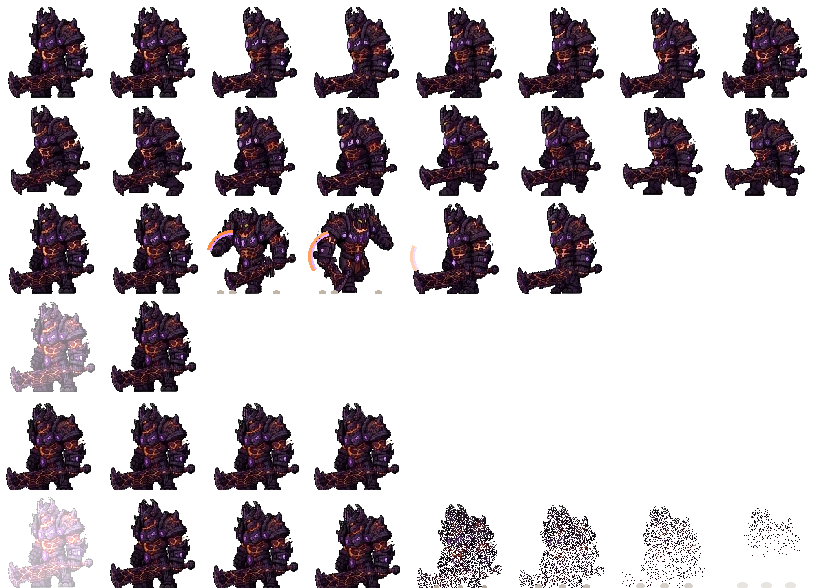
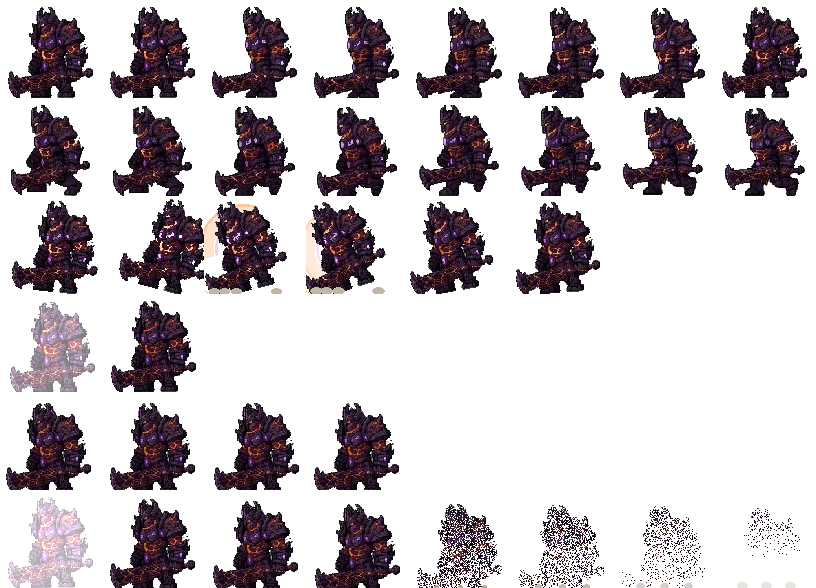
Clearer swings: the walker's arm follows its machete; the boss slams
Walker: the arm and machete are one piece rotated about the shoulder
(the torso it covered is filled in): ready, raised back over the head,
down across the front with a bright smear, follow-through, recover.
Boss: its lava veins flare as it rears back (the warning), then it
pitches forward over the front foot with a wide smear, dust and lava
cracks on the ground; the strike shakes the cave. The '!' over the boss
sits above its HP pips.

Claude-Session: https://claude.ai/code/session_01TWgnVPgC6ExzhCPMZ9rN5j

Changed region(s): [[0.0, 0.3367, 0.7353, 0.5204]]

diff --git a/tools/make_enemy_animations.py b/tools/make_enemy_animations.py
@@ -178,6 +178,61 @@ def death_row(still, collapse, seed, puffs, steps):
     return frames
 
 
+# ---- swings: a limb rotated about its joint ------------------------------
+
+def inpaint(art, holes, rounds=24, shade=0.82):
+    """Fill ``holes`` from their filled neighbours (a part was lifted off)."""
+    out = art.astype(float)
+    todo = holes.copy()
+    out[todo] = 0
+    for _ in range(rounds):
+        if not todo.any():
+            break
+        filled = (out[..., 3] > 0) & ~todo
+        acc = np.zeros(out.shape[:2] + (3,))
+        cnt = np.zeros(out.shape[:2])
+        for dy, dx in ((1, 0), (-1, 0), (0, 1), (0, -1)):
+            src = np.roll(np.roll(out, dy, 0), dx, 1)
+            ok = np.roll(np.roll(filled, dy, 0), dx, 1)
+            acc += src[..., :3] * ok[..., None]
+            cnt += ok
+        grow = todo & (cnt > 0)
+        out[grow, :3] = acc[grow] / cnt[grow, None] * shade
+        out[grow, 3] = 255
+        todo &= ~grow
+    return out.astype(np.uint8)
+
+
+def rotated_layer(part, size, at, pivot, degrees):
+    """``part`` placed at ``at`` on a ``size`` canvas, turned about ``pivot``
+    (art coordinates) by ``degrees`` counter-clockwise, pixel-crisp."""
+    canvas = Image.new('RGBA', size, (0, 0, 0, 0))
+    canvas.alpha_composite(Image.fromarray(part), at)
+    if degrees:
+        canvas = canvas.rotate(degrees, resample=Image.NEAREST,
+                               center=(at[0] + pivot[0], at[1] + pivot[1]))
+    return canvas
+
+
+def smear(frame, center, r0, r1, start, end, color, alpha):
+    """A filled crescent: the motion blur of a swing (screen degrees, y down)."""
+    a = np.array(frame)
+    h, w = a.shape[:2]
+    ys, xs = np.mgrid[0:h, 0:w]
+    dx, dy = xs - center[0], ys - center[1]
+    d = np.hypot(dx, dy)
+    ang = np.degrees(np.arctan2(dy, dx)) % 360
+    lo, hi = start % 360, end % 360
+    inside = (ang >= lo) & (ang <= hi) if lo <= hi else (ang >= lo) | (ang <= hi)
+    band = inside & (d >= r0) & (d <= r1) & (a[..., 3] == 0)
+    edge = band & (d >= r1 - 1.5)
+    inner = band & (d >= r1 - 4) & ~edge
+    a[band] = (*color, alpha // 4)
+    a[inner] = (*color, alpha // 2)
+    a[edge] = (255, 255, 240, alpha)
+    return Image.fromarray(a)
+
+
 # ---- per enemy ------------------------------------------------------------
 
 def walker_frames(art, masks):
@@ -189,19 +244,36 @@ def walker_frames(art, masks):
         c = math.cos(2 * math.pi * n / 8)
         pose['weapon'] = (round(c), pose['body'][1])      # the knife swings against the legs
     anims['walk'] = [f(p) for p in lagged(walk)]
-    # Ready, wind up, slash down toward the facing side (left), follow through, recover.
+    # The swing: the arm and the machete are one piece turned about the
+    # shoulder, so the arm follows the blade. The torso it covered is filled.
+    h, w = art.shape[:2]
+    ys, xs = np.mgrid[0:h, 0:w]
+    solid = art[..., 3] > 0
+    limb = solid & (((xs <= 14) & (ys <= 33)) | ((xs <= 20) & (ys >= 18) & (ys <= 38)))
+    shoulder = (20, 23)
+    body_art = inpaint(np.where(limb[..., None], 0, art).astype(np.uint8), limb & (xs >= 15))
+    arm_art = np.where(limb[..., None], art, 0).astype(np.uint8)
+    size = (w + 2 * PAD_X, h + PAD_TOP)
+    # (body offset, arm angle, smear (from, to, alpha) in screen degrees)
+    # The blade starts pointing up-left (about 208 deg); +angle swings it down.
+    keys = (((1, 0), -15, None),                 # ready
+            ((2, 0), -62, None),                 # wind up: blade raised back
+            ((-2, 0), 55, (150, 272, 230)),      # strike: down across the front
+            ((-3, 1), 92, (112, 210, 150)),      # follow through
+            ((-2, 1), 40, None),                 # recover
+            ((-1, 0), 10, None))                 # settle
     attack = []
-    keys = (((1, 0), (2, -3), (1, 0), None),
-            ((2, 0), (3, -5), (2, 0), None),
-            ((-1, 0), (-3, 1), (0, 0), ((200, 268), 230)),
-            ((-2, 1), (-5, 4), (-2, 1), ((150, 258), 170)),
-            ((-1, 1), (-3, 2), (-2, 1), ((150, 200), 80)),
-            ((0, 0), (-1, 1), (-1, 0), None))
-    for body, weapon, head, arc in keys:
-        frame = f({'body': body, 'weapon': weapon, 'head': head})
+    for (bx, by), angle, arc in keys:
+        frame = Image.new('RGBA', size, (0, 0, 0, 0))
+        legs = np.where((masks['leg_l'] | masks['leg_r'])[..., None], art, 0).astype(np.uint8)
+        frame.alpha_composite(Image.fromarray(legs), (PAD_X, PAD_TOP))
+        upper = np.where((masks['leg_l'] | masks['leg_r'])[..., None], 0, body_art).astype(np.uint8)
+        frame.alpha_composite(Image.fromarray(upper), (PAD_X + bx, PAD_TOP + by))
+        pivot = (PAD_X + bx + shoulder[0], PAD_TOP + by + shoulder[1])
         if arc:
-            (start, end), alpha = arc
-            slash(frame, (PAD_X + 14, PAD_TOP + 26), 17, start, end, (255, 236, 200, alpha))
+            frame = smear(frame, pivot, 13, 25, arc[0], arc[1], (255, 244, 220), arc[2])
+        frame.alpha_composite(rotated_layer(arm_art, size, (PAD_X + bx, PAD_TOP + by),
+                                            shoulder, angle))
         attack.append(frame)
     anims['attack'] = attack
     hurt = [f({'body': (2, 0), 'head': (3, 0), 'weapon': (3, -1)}),
@@ -324,25 +396,45 @@ def boss_frames(art, masks):
             walk_frames.append(compose_src(src, pose))
         anims['walk'] = walk_frames
 
-        swing_a = _boss_directional_pose(grid, 3, 3, (w, h), flip=True)
-        swing_b = _boss_directional_pose(grid, 3, 2, (w, h), flip=False)
-        attack_specs = (
-            (idle_srcs[0], {'body': (1, 0), 'head': (1, 0)}, None, False),
-            (idle_srcs[0], {'body': (3, 0), 'head': (2, 0)}, None, False),
-            (swing_a, {'body': (-2, 0), 'head': (-1, 0)}, ((195, 270), 235), True),
-            (swing_b, {'body': (-4, 0), 'head': (-2, 0)}, ((145, 255), 185), True),
-            (idle_srcs[2], {'body': (-3, 1), 'head': (-4, 2)}, ((145, 205), 95), False),
-            (idle_srcs[1], {'body': (-1, 0), 'head': (-2, 1)}, None, False),
-        )
+        # A heavy slam with the whole body (its sword is part of the
+        # silhouette): it rears back while its lava veins flare
+        # (the warning), then pitches forward over the front foot with a
+        # wide smear, a burst of dust and lava cracks where it lands.
+        size = (w + 2 * PAD_X, h + PAD_TOP)
+        back_foot, front_foot = (62, h - 1), (26, h - 1)
+        src = idle_srcs[0]
+        r, g, b = (src[..., i].astype(int) for i in range(3))
+        veins = (src[..., 3] > 0) & (((r > 115) & (r > b + 40)) | ((b > 90) & (b > g + 30) & (r > 70)))
+        # (x, y shift, tilt: + leans forward, pivot foot, vein flare, smear, impact)
+        beats = ((2, 0, -6, back_foot, 40, None, False),
+                 (4, 0, -15, back_foot, 110, None, False),
+                 (-3, 0, 14, front_foot, 60, (165, 290, 235), True),
+                 (-4, 0, 18, front_foot, 30, (130, 230, 170), True),
+                 (-3, 0, 10, front_foot, 0, None, False),
+                 (-1, 0, 4, front_foot, 0, None, False))
         attack = []
-        for n, (src, pose, arc, puff) in enumerate(attack_specs):
-            frame = compose_src(shimmer(src, n, 6), pose)
+        for n, (dx, dy, tilt, foot, flare, arc, impact) in enumerate(beats):
+            art_n = shimmer(src, n, 6)
+            if flare:
+                art_n = brighten(art_n, veins, np.full(veins.shape, flare, np.int16))
+            frame = rotated_layer(art_n, size, (PAD_X + dx, PAD_TOP + dy), foot, tilt)
             if arc:
-                (start, end), alpha = arc
-                slash(frame, (PAD_X + 20, PAD_TOP + 54), 26, start, end, (255, 130, 45, alpha), width=3)
-                slash(frame, (PAD_X + 20, PAD_TOP + 54), 23, start, end, (210, 110, 255, max(60, alpha - 50)), width=2)
-            if puff:
-                dust(frame, (PAD_X + 8, PAD_X + 20, PAD_X + 64))
+                center = (PAD_X + dx + 34, PAD_TOP + 46)
+                frame = smear(frame, center, 30, 46, arc[0], arc[1], (255, 132, 46), arc[2])
+                frame = smear(frame, center, 26, 30, arc[0], arc[1], (200, 110, 255),
+                              max(60, arc[2] - 60))
+            if impact:
+                draw = ImageDraw.Draw(frame)
+                base = frame.height - 1
+                reach = 34 if n == 2 else 44
+                # Lava cracks running out along the ground from the blow.
+                for k in range(0, reach, 2):
+                    x = PAD_X + dx + 20 - k
+                    jitter = (k * 7) % 3 - 1
+                    draw.point((x, base - 1 + jitter), fill=(255, 150, 50, 255))
+                    if k % 6 == 0:
+                        draw.point((x, base - 2 + jitter), fill=(255, 230, 140, 255))
+                dust(frame, (PAD_X + 2, PAD_X + 12, PAD_X + 24, PAD_X + 64), size=5 if n == 2 else 6)
             attack.append(frame)
         anims['attack'] = attack
     else:

diff --git a/main.py b/main.py
@@ -854,6 +854,11 @@ class Game:
             enemy.melee_length, enemy.melee_struck = MELEE_STRIKE, False
             enemy.attack_time = self.world_time
             state = 'strike'
+            if getattr(enemy, 'is_boss', False):
+                # The boss's slam shakes the cave and throws up dust.
+                self.shake = min(1.0, self.shake + 0.55)
+                front = enemy.rect.left if enemy.melee_side < 0 else enemy.rect.right
+                self.particles.dust(front, enemy.rect.bottom, 1.0)
         if state == 'strike':
             if not enemy.melee_struck and self._melee_box(enemy, enemy.melee_side).colliderect(player):
                 enemy.melee_struck = True

diff --git a/enemy_sprites.py b/enemy_sprites.py
@@ -253,7 +253,8 @@ def draw_tell(screen, actor, art, right, time):
     else:
         blink = int(time * (14 if left > MELEE_TELL / 2 else 24)) % 2
         color, glint = ((255, 236, 200) if blink else (240, 60, 40)), True
-    x, y = art.centerx, art.top - 10
+    # Above the boss's HP pips, which sit just over its head.
+    x, y = art.centerx, art.top - (26 if getattr(actor, 'is_boss', False) else 10)
     pygame.draw.rect(screen, (30, 10, 10), (x - 3, y - 9, 6, 13))
     pygame.draw.rect(screen, color, (x - 2, y - 8, 4, 7))
     pygame.draw.rect(screen, color, (x - 2, y + 1, 4, 2))
